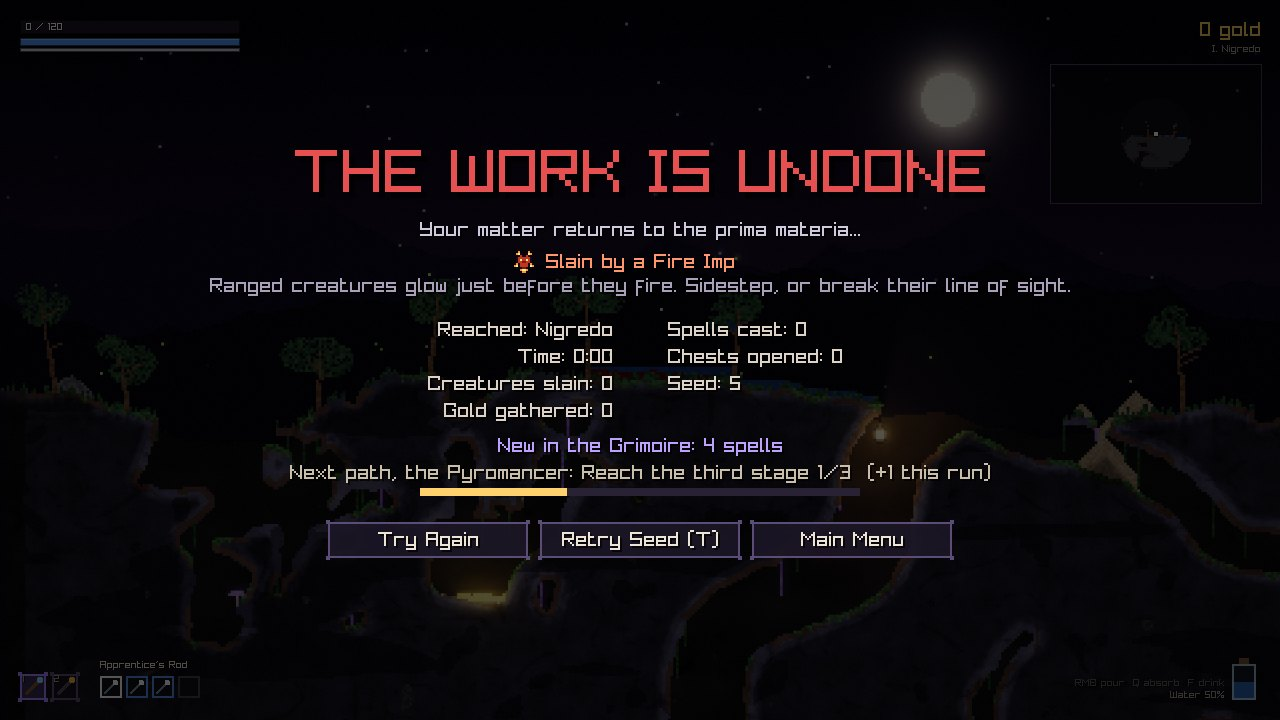
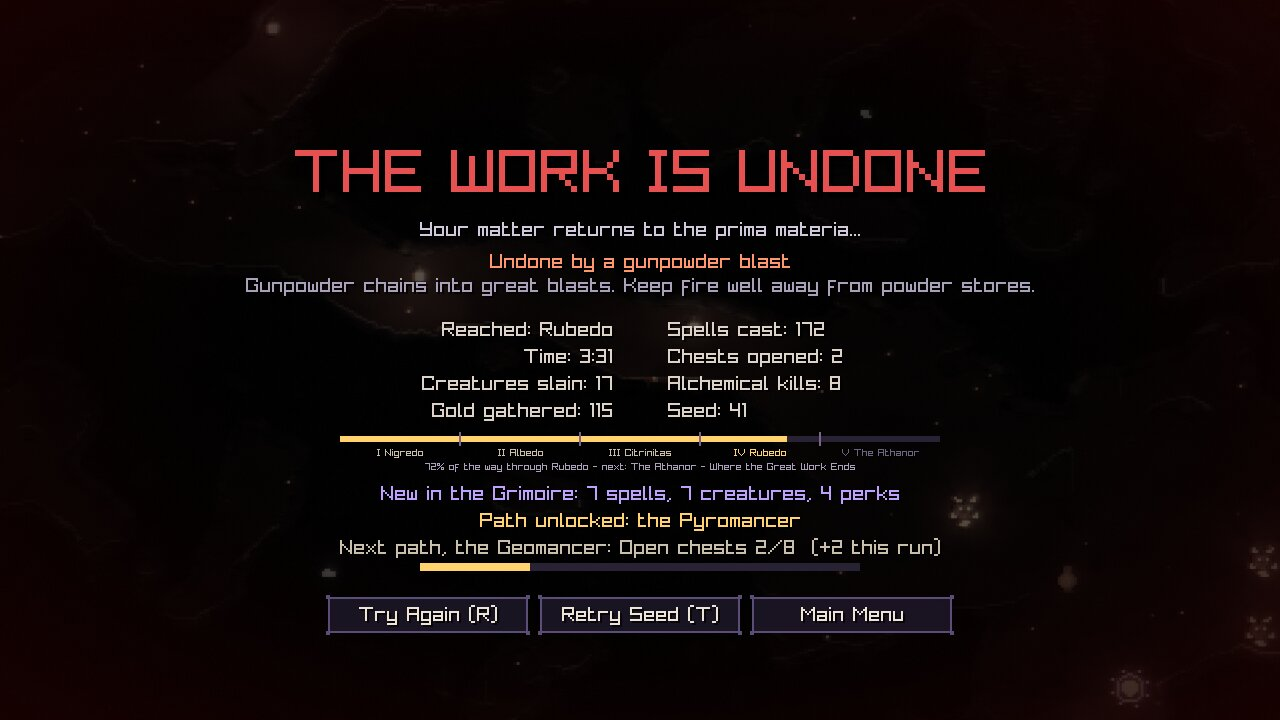
Docs: a real death for the death screen screenshot, with the descent strip
Claude-Session: https://claude.ai/code/session_01SS7k2x4EpKFxcss3PJLjx6

diff --git a/README.md b/README.md
@@ -18,7 +18,7 @@ yourself from spell cards.
 | ![The map: the portal is the goal, guardians are optional](docs/media/map.jpg) | ![The Grimoire](docs/media/grimoire.jpg) |
 | ![Alchemy Sandbox](docs/media/sandbox.jpg) | ![Wand editing](docs/media/inventory.jpg) |
 | ![A Volatile omen announced on the title card](docs/media/omen.jpg) | ![The chronicle of recent runs](docs/media/chronicle.jpg) |
-| ![The White Wraith in its lair](docs/media/guardian.jpg) | ![The death screen: the culprit, the next path and a retry](docs/media/deathscreen.jpg) |
+| ![The White Wraith in its lair](docs/media/guardian.jpg) | ![The death screen: the culprit, how far down, the next path and a retry](docs/media/deathscreen.jpg) |
 | ![A lava breach floods a passage beside the Red Colossus' lair; three essences circle the alchemist](docs/media/breach.jpg) | ![Choosing an ordeal under the starting paths](docs/media/ordeals.jpg) |
 
 ## Playing
